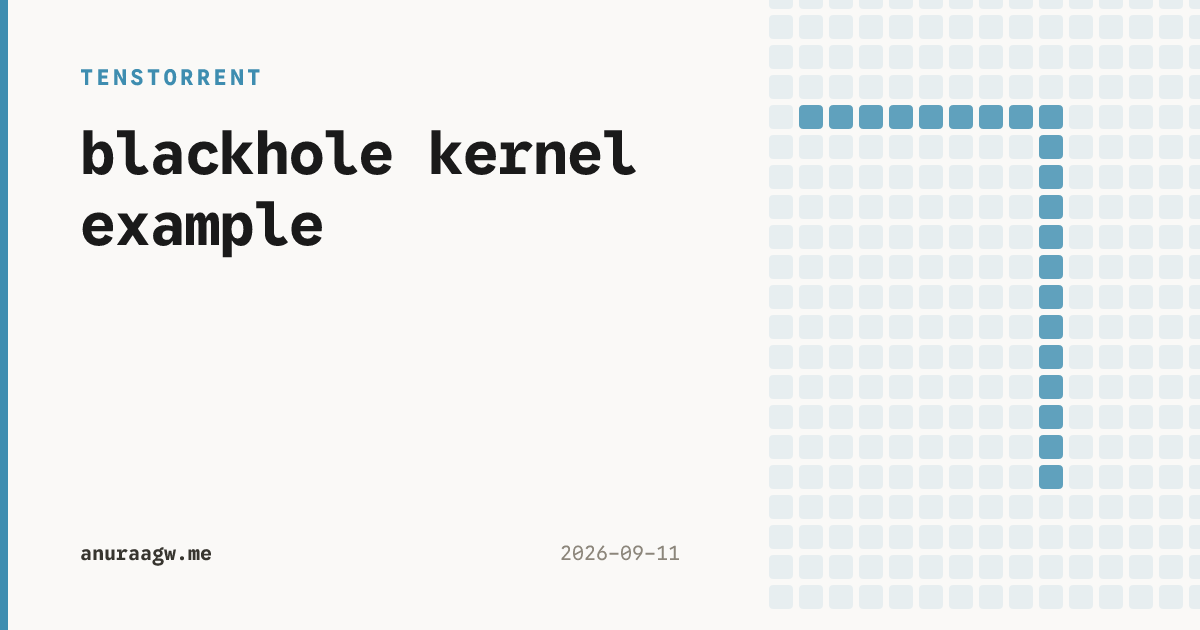
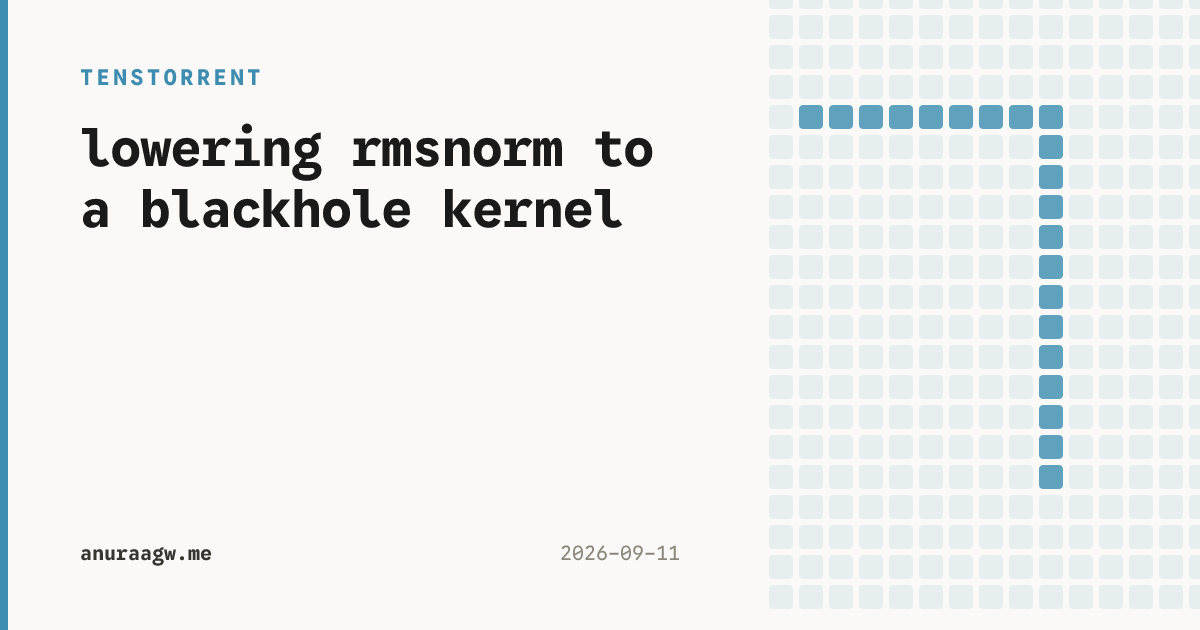
Restore RMSNorm article voice and explain hybrid FPU lowering

Changed region(s): [[0.0617, 0.181, 0.555, 0.4222]]

diff --git a/src/components/diagrams/sfpu-reduction-model.ts b/src/components/diagrams/sfpu-reduction-model.ts
@@ -28,28 +28,28 @@ export function reductionFrames(): Frame[] {
     const left = valueOf(registers[0]![0].cells[0]);
     const right = valueOf(registers[other]![0].cells[0]);
     registers[0] = registers[0]!.map((row, r) => ({ ...row, cells: row.cells.map((cell, c) => ({ ...cell, terms: [...cell.terms, ...registers[other]![r].cells[c].terms].sort((a, b) => a - b) })) }));
-    emit({ phase, kind: 'add', target: 0, source: other, instruction: `SFPADD: L0 ← L0 + L${other}`, description, equation: `Lane 0: ${left} + ${right} = ${left + right}` });
+    emit({ phase, kind: 'add', target: 0, source: other, instruction: `SFPADD: LReg0 ← LReg0 + LReg${other}`, description, equation: `Lane 0: ${left} + ${right} = ${left + right}` });
   };
-  emit({ phase: 0, kind: 'start', target: 0, instruction: 'L0: 32 partial sums', description: 'Use 1–32 as example partial sums. Each colored row contains eight lanes of one register.' });
+  emit({ phase: 0, kind: 'start', target: 0, instruction: 'LReg0: 32 partial sums', description: 'Use 1–32 as example partial sums. Each colored row contains eight lanes of one register.' });
   for (const distance of [4, 2, 1]) {
     registers[1] = copy(registers[0]!);
-    emit({ phase: 0, kind: 'copy', target: 1, instruction: 'SFPMOV: L1 ← L0', description: `Save a scratch copy to rotate right by ${distance}. L0 stays in place until the add.` });
+    emit({ phase: 0, kind: 'copy', target: 1, instruction: 'SFPMOV: LReg1 ← LReg0', description: `Save a scratch copy to rotate right by ${distance}. LReg0 stays in place until the add.` });
     for (let shift = 1; shift <= distance; shift++) {
       registers[1] = registers[1]!.map(row => ({ ...row, cells: [row.cells[7], ...row.cells.slice(0, 7)] }));
-      emit({ phase: 0, kind: 'rotate', target: 1, instruction: `SFPSHFT2: rotate L1 right by 1 · ${shift}/${distance}`, description: `Rotate within each eight-lane row; the last lane wraps to the first. ${distance > 1 ? `A rotate by ${distance} takes ${distance} one-position instructions.` : 'No values cross between rows.'}` });
+      emit({ phase: 0, kind: 'rotate', target: 1, instruction: `SFPSHFT2: rotate LReg1 right by 1 · ${shift}/${distance}`, description: `Rotate within each eight-lane row; the last lane wraps to the first. ${distance > 1 ? `A rotate by ${distance} takes ${distance} one-position instructions.` : 'No values cross between rows.'}` });
     }
-    add(1, 0, `Add the rotated copy to L0.${distance === 1 ? ' Every lane in a row holds the same row sum.' : ''}`);
+    add(1, 0, `Add the rotated copy to LReg0.${distance === 1 ? ' Every lane in a row holds the same row sum.' : ''}`);
   }
   for (const target of [1, 2, 3]) {
     registers[target] = copy(registers[0]!);
-    emit({ phase: 1, kind: 'copy', target, instruction: `SFPMOV: L${target} ← L0`, description: `Copy the four row sums into L${target}.${target === 3 ? ' L0, L1, L2, and L3 now contain identical copies.' : ' Each row sum is already repeated eight times.'}` });
+    emit({ phase: 1, kind: 'copy', target, instruction: `SFPMOV: LReg${target} ← LReg0`, description: `Copy the four row sums into LReg${target}.${target === 3 ? ' LReg0, LReg1, LReg2, and LReg3 now contain identical copies.' : ' Each row sum is already repeated eight times.'}` });
   }
   const before = registers;
   registers = Array.from({ length: 4 }, (_, register) => Array.from({ length: 4 }, (_, row) => before[row]![register]));
-  emit({ phase: 2, kind: 'transpose', target: -1, instruction: 'SFPTRANSP: transpose rows across L0–L3', description: 'Follow the colors: row j of each source register moves to Lj. Each register now holds one row sum in all 32 lanes.' });
+  emit({ phase: 2, kind: 'transpose', target: -1, instruction: 'SFPTRANSP: transpose rows across LReg0–LReg3', description: 'Follow the colors: row j of each source register moves to LRegj. Each register now holds one row sum in all 32 lanes.' });
   for (const other of [1, 2, 3]) add(other, 3, other === 3
-    ? 'Done: s = 36 + 100 + 164 + 228 = 528 in every lane of L0. The sum is ready for lane-wise arithmetic.'
-    : `Add L${other} to L0 lane by lane. Every lane in L0 now includes ${8 * (other + 1)} original partial sums.`);
+    ? 'Done: s = 36 + 100 + 164 + 228 = 528 in every lane of LReg0. The sum is ready for lane-wise arithmetic.'
+    : `Add LReg${other} to LReg0 lane by lane. Every lane in LReg0 now includes ${8 * (other + 1)} original partial sums.`);
   return frames;
 }
 export const frames = reductionFrames();

diff --git a/src/components/diagrams/SfpuReduction.tsx b/src/components/diagrams/SfpuReduction.tsx
@@ -43,7 +43,7 @@ export default function SfpuReduction() {
           const x = 0, y = reg * 156;
           return <g key={reg}>
             <rect class={`sfp-register ${frame.target === reg || frame.kind === 'transpose' ? 'active' : ''}`} x={x + 4} y={y + 4} width={468} height={144} rx={5} />
-            <text class="sfp-reg-name" x={x + 16} y={y + 23}>{`L${reg}`}</text>
+            <text class="sfp-reg-name" x={x + 16} y={y + 23}>{`LReg${reg}`}</text>
             <text class="sfp-reg-note" x={x + 452} y={y + 23} text-anchor="end">{reg === 0 ? (finished ? 's · all 32 lanes' : `${count} ${count === 1 ? 'input' : 'inputs'} / lane`) : reg === 1 && frame.phase === 0 ? 'scratch · rotated copy' : '4 rows × 8 lanes'}</text>
             {Array.from({ length: 32 }, (_, lane) => <rect key={lane} class="sfp-empty-cell" x={x + 16 + lane % 8 * 56} y={y + 36 + Math.floor(lane / 8) * 26} width={52} height={22} rx={2} />)}
             {!frame.registers[reg] && <text class="sfp-unused" x={x + 240} y={y + 93} text-anchor="middle">not used yet</text>}
@@ -59,7 +59,7 @@ export default function SfpuReduction() {
               return <g key={cell.id} class={`sfp-moving-cell ${wrap ? 'sfp-wrap' : ''}`} style={{ transform: `translate(${col * 56}px, 0px)`, '--row-color': mixed ? 'var(--accent)' : colors[originalRow] }}>
                 <rect class="sfp-value-cell" width={52} height={22} rx={2} />
                 <text class="sfp-value" x={26} y={16}>{valueOf(cell)}</text>
-                <title>{`L${reg}, lane ${r * 8 + col}: ${cell.terms.map(term => term + 1).join(' + ')} = ${valueOf(cell)}`}</title>
+                <title>{`LReg${reg}, lane ${r * 8 + col}: ${cell.terms.map(term => term + 1).join(' + ')} = ${valueOf(cell)}`}</title>
               </g>;
             })}
           </g>;
@@ -84,6 +84,6 @@ export default function SfpuReduction() {
       <label class="sfp-speed">Speed <select value={speed} onChange={event => setSpeed(Number(event.currentTarget.value))}><option value={2200}>Slow</option><option value={1400}>Normal</option><option value={850}>Fast</option></select></label>
       <span>{step} / {frames.length - 1}</span>
     </div>
-    <figcaption class="elw-note">Values 1–32 stand in for the accumulated sums in L0. All lanes are active. Hover a value to see its contributions. Movement is slowed down; SFPNOPs and hardware timing are omitted.</figcaption>
+    <figcaption class="elw-note">Values 1–32 stand in for the accumulated sums in LReg0. All lanes are active. Hover a value to see its contributions. Movement is slowed down; SFPNOPs and hardware timing are omitted.</figcaption>
   </figure>;
 }
